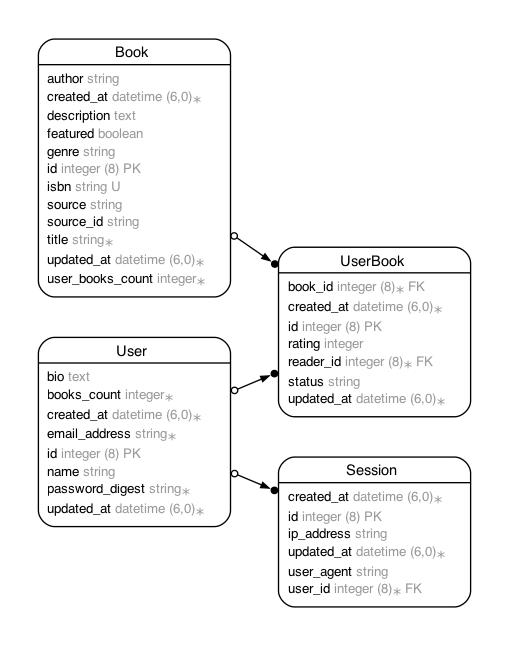
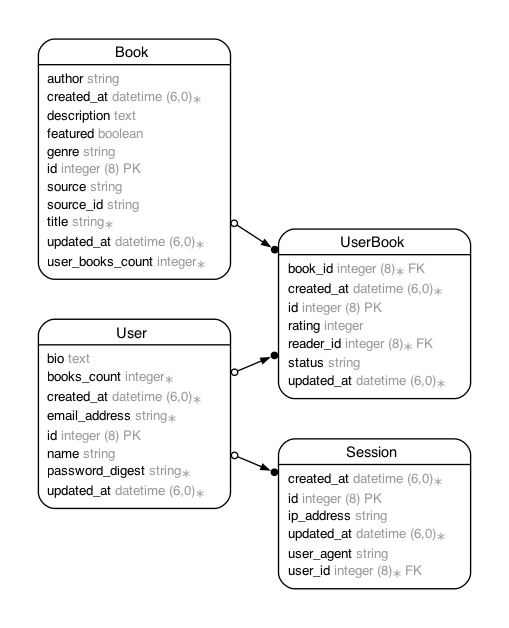
removed isbn column from books

diff --git a/app/models/book.rb b/app/models/book.rb
@@ -7,7 +7,6 @@
 #  description      :text
 #  featured         :boolean          default(FALSE)
 #  genre            :string
-#  isbn             :string
 #  source           :string
 #  title            :string
 #  user_books_count :integer          default(0), not null
@@ -17,7 +16,6 @@
 #
 # Indexes
 #
-#  index_books_on_isbn                  (isbn) UNIQUE
 #  index_books_on_source_and_source_id  (source,source_id) UNIQUE
 #
 class Book < ApplicationRecord
@@ -25,5 +23,25 @@ class Book < ApplicationRecord
   has_many :readers, through: :user_books, source: :reader
 
   validates :title, presence: true
-  validates :isbn, uniqueness: true, allow_nil: true
+
+  GENRES = [
+    "fiction",
+    "fantasy",
+    "science fiction",
+    "romance",
+    "mystery",
+    "thriller",
+    "horror",
+    "historical",
+    "biography",
+    "self-help",
+    "philosophy",
+    "psychology",
+    "business",
+    "children",
+    "young adult",
+    "classic",
+    "sci-fi",
+    "non-fiction" 
+  ]
 end

diff --git a/db/schema.rb b/db/schema.rb
@@ -10,7 +10,7 @@
 #
 # It's strongly recommended that you check this file into your version control system.
 
-ActiveRecord::Schema[8.0].define(version: 2025_12_20_213033) do
+ActiveRecord::Schema[8.0].define(version: 2026_02_14_153434) do
   # These are extensions that must be enabled in order to support this database
   enable_extension "pg_catalog.plpgsql"
 
@@ -22,11 +22,9 @@ ActiveRecord::Schema[8.0].define(version: 2025_12_20_213033) do
     t.integer "user_books_count", default: 0, null: false
     t.datetime "created_at", null: false
     t.datetime "updated_at", null: false
-    t.string "isbn"
     t.string "source"
     t.string "source_id"
     t.boolean "featured", default: false
-    t.index ["isbn"], name: "index_books_on_isbn", unique: true
     t.index ["source", "source_id"], name: "index_books_on_source_and_source_id", unique: true
   end
 

diff --git a/app/controllers/user_books_controller.rb b/app/controllers/user_books_controller.rb
@@ -44,7 +44,6 @@ class UserBooksController < ApplicationController
         description: params[:book][:description],
         source: params[:book][:source],
         source_id: params[:book][:source_id],
-        isbn: params[:book][:isbn],
         genre: params[:book][:genre]
       }
 

diff --git a/db/migrate/20260214153434_remove_column_isbn_from_books.rb b/db/migrate/20260214153434_remove_column_isbn_from_books.rb
@@ -1,0 +1,5 @@
+class RemoveColumnIsbnFromBooks < ActiveRecord::Migration[8.0]
+  def change
+    remove_column :books, :isbn, :string
+  end
+end
